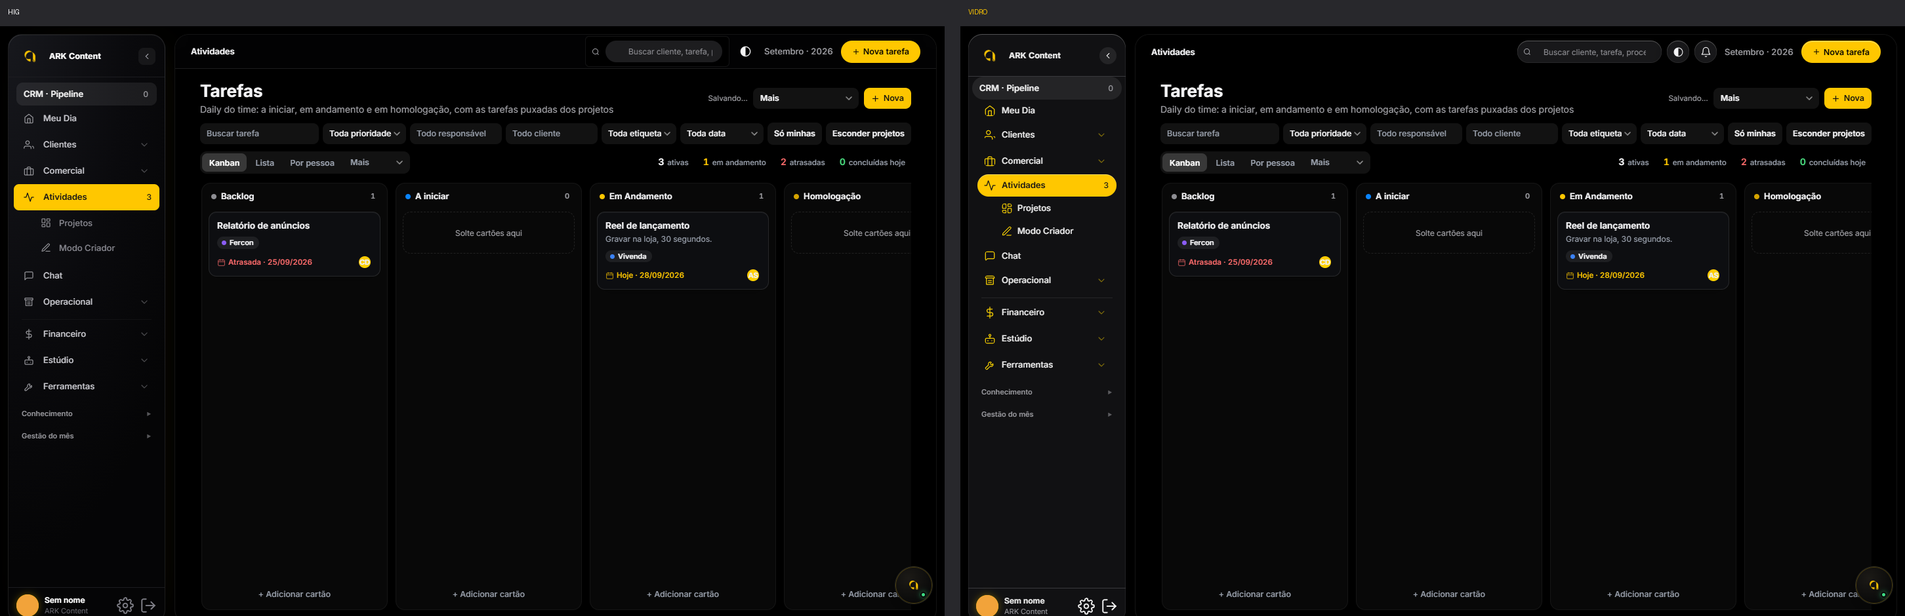
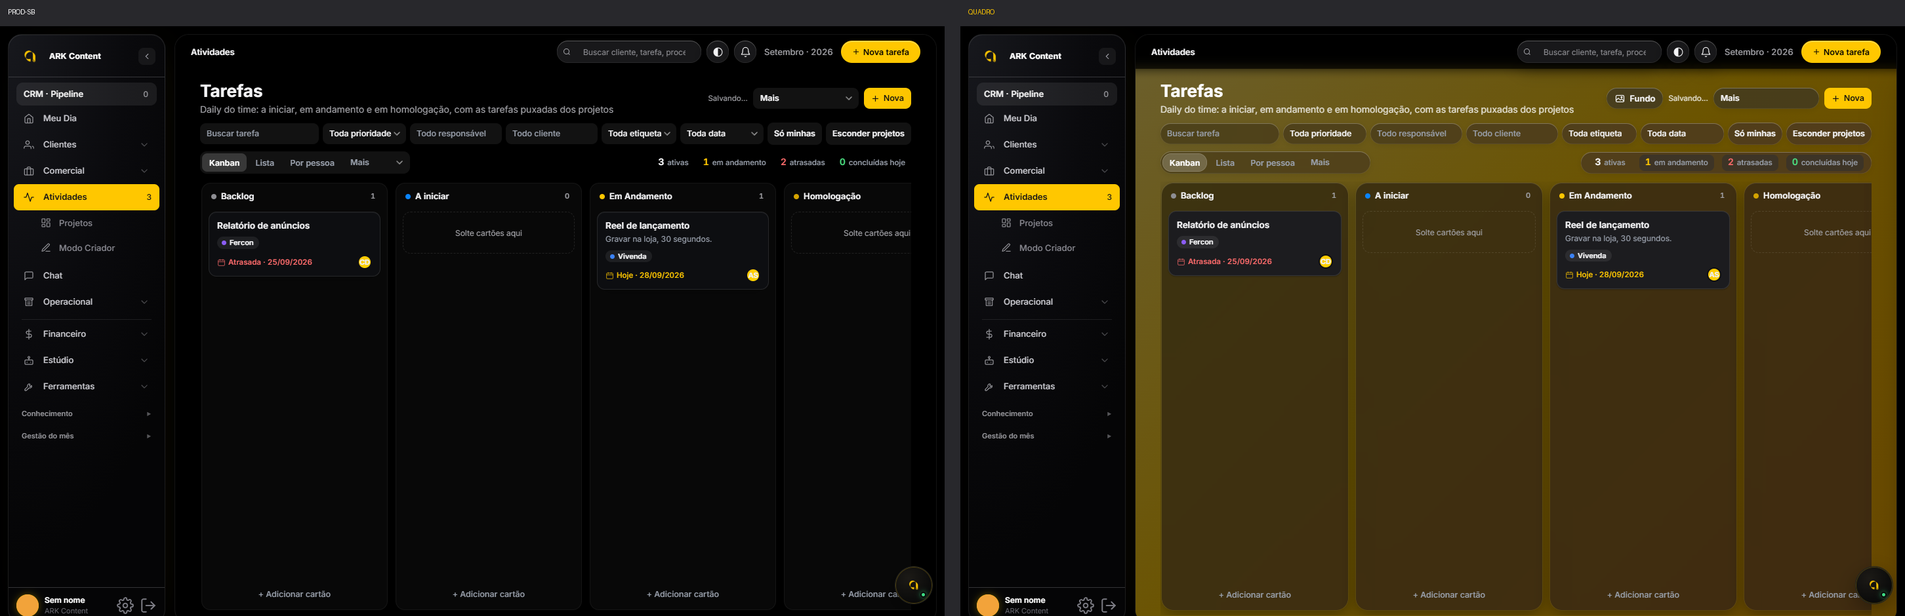
Atividades no piloto Liquid Glass aprovado: tema claro padrão, quadro com rolagem livre, fundo amarelo e escolha de fundo; marcador 20260929a-atividades-quadro
- Tema claro vira o padrão para quem não escolheu (quem escolheu escuro
  continua no escuro). Sidebar segue preta.
- Quadro estilo Trello: arrastar o fundo (ou o fundo da coluna) com o
  mouse rola na horizontal, com inércia; cartão, botão e campo não
  iniciam o arraste; roda do mouse fora das colunas anda para os lados.
- Plano de fundo por pessoa neste aparelho: amarelo por padrão, 7
  gradientes ou foto própria (comprimida para até 1920 px).
- Colunas em vidro fosco, cartões sólidos, controles em cápsulas de vidro,
  refração de Liquid Glass nas cápsulas (Chrome).
- Prova: servidor com várias conexões (o de uma por vez deixava cair folha
  de estilo) e aviso de folha sem carregar.
Teste deploy/teste-quadro.py: RED 5 de 5, GREEN depois. teste-hig,
arrastar, drop rápido, confiabilidade, mobile, tema, prazo, tokens e
build OK.

Claude-Session: https://claude.ai/code/session_01KJbxYq7eWrqoC6iFvLdahp

diff --git a/public/workflowark-quadro-20260929a.js b/public/workflowark-quadro-20260929a.js
@@ -1,0 +1,158 @@
+/* WorkFlowArk · aba Atividades no piloto Liquid Glass aprovado (28/09/2026).
+   - Rolagem livre estilo Trello: arrastar o fundo do quadro (ou o fundo da coluna) com o mouse rola na horizontal,
+     com inércia (projeção de momento da Apple). Cartão, botão e campo não iniciam o arraste do quadro.
+   - Plano de fundo por pessoa neste aparelho: amarelo por padrão, gradientes prontos ou uma foto.
+   - Refração de Liquid Glass nas cápsulas da barra do topo e da barra de vistas (só no Chrome; nos outros fica o desfoque).
+   Teste: python deploy/teste-quadro.py */
+(function () {
+  'use strict';
+  var CHAVE = 'wfa-quadro-fundo';
+  var FUNDOS = [
+    'linear-gradient(135deg,#FFE066 0%,#FFC700 45%,#FFAE00 100%)',
+    'linear-gradient(135deg,#ffb86b,#ff6fa3 45%,#7b6cff)',
+    'linear-gradient(135deg,#4facfe,#00f2fe)',
+    'linear-gradient(135deg,#43e97b,#38f9d7)',
+    'linear-gradient(135deg,#fa709a,#fee140)',
+    'linear-gradient(135deg,#667eea,#764ba2)',
+    'linear-gradient(160deg,#0f2027,#203a43 50%,#2c5364)',
+    'linear-gradient(135deg,#f6d365,#fda085)'
+  ];
+  function pagina() { return document.getElementById('page-tarefas'); }
+
+  // ---------- plano de fundo ----------
+  function aplicarFundo(v) {
+    var pg = pagina(); if (!pg) return;
+    var css = (v && v.foto) ? 'url("' + v.foto + '") center/cover no-repeat' : FUNDOS[(v && v.i) || 0] || FUNDOS[0];
+    pg.style.setProperty('--quadro-fundo', css);
+    marcarAmostras(v);
+  }
+  function lerFundo() { try { return JSON.parse(localStorage.getItem(CHAVE) || 'null') || { i: 0 }; } catch (e) { return { i: 0 }; } }
+  function salvarFundo(v) { try { localStorage.setItem(CHAVE, JSON.stringify(v)); return true; } catch (e) { return false; } }
+  window.wfaQuadroFundo = function (i) { var v = { i: Math.max(0, Math.min(FUNDOS.length - 1, +i || 0)) }; salvarFundo(v); aplicarFundo(v); };
+  function usarFoto(arquivo) {
+    if (!arquivo || !/^image\//.test(arquivo.type)) return;
+    var img = new Image(), url = URL.createObjectURL(arquivo);
+    img.onload = function () {
+      var max = 1920, k = Math.min(1, max / Math.max(img.width, img.height)), c = document.createElement('canvas');
+      c.width = Math.round(img.width * k); c.height = Math.round(img.height * k);
+      c.getContext('2d').drawImage(img, 0, 0, c.width, c.height); URL.revokeObjectURL(url);
+      var v = { foto: c.toDataURL('image/jpeg', .82) };
+      if (!salvarFundo(v)) { v = { foto: c.toDataURL('image/jpeg', .6) }; salvarFundo(v); }
+      aplicarFundo(v);
+    };
+    img.src = url;
+  }
+
+  // ---------- botão e popover de fundo ----------
+  var pop;
+  function marcarAmostras(v) {
+    if (!pop) return;
+    [].forEach.call(pop.querySelectorAll('.qf-amostra'), function (b, j) { b.classList.toggle('on', !(v && v.foto) && ((v && v.i) || 0) === j); });
+  }
+  function montarBotao() {
+    var acoes = document.querySelector('#page-tarefas .tf-acoes');
+    if (!acoes || document.getElementById('tf-fundo-btn')) return;
+    var bt = document.createElement('button');
+    bt.id = 'tf-fundo-btn'; bt.type = 'button'; bt.className = 'tf-fundo-btn'; bt.setAttribute('aria-label', 'Plano de fundo do quadro'); bt.title = 'Plano de fundo do quadro';
+    bt.innerHTML = '<svg viewBox="0 0 24 24" fill="none" stroke="currentColor" stroke-width="1.7" stroke-linecap="round" stroke-linejoin="round"><rect x="3.5" y="5" width="17" height="14" rx="2.5"/><path d="M3.5 16l5-5 4.2 4.2 2.8-2.8 5 5"/><circle cx="15.5" cy="9" r="1.2"/></svg><span>Fundo</span>';
+    acoes.insertBefore(bt, acoes.firstChild);
+    pop = document.createElement('div');
+    pop.className = 'qf-pop'; pop.setAttribute('role', 'dialog'); pop.setAttribute('aria-label', 'Plano de fundo do quadro');
+    var h = '<div class="qf-tit">Plano de fundo do quadro</div><div class="qf-grade">';
+    FUNDOS.forEach(function (f, j) { h += '<button type="button" class="qf-amostra" style="background:' + f + '" aria-label="' + (j ? 'Fundo ' + (j + 1) : 'Amarelo ARK') + '" data-i="' + j + '"></button>'; });
+    h += '</div><label class="qf-foto"><svg viewBox="0 0 24 24" width="16" height="16" fill="none" stroke="currentColor" stroke-width="1.8" stroke-linecap="round"><path d="M12 15V5M7.8 9.2L12 5l4.2 4.2M5 16v2.5A1.5 1.5 0 0 0 6.5 20h11a1.5 1.5 0 0 0 1.5-1.5V16"/></svg>Usar uma foto minha<input type="file" accept="image/*" hidden></label>';
+    pop.innerHTML = h;
+    document.body.appendChild(pop);
+    pop.addEventListener('click', function (e) { var a = e.target.closest('.qf-amostra'); if (a) window.wfaQuadroFundo(+a.dataset.i); });
+    pop.querySelector('input').addEventListener('change', function () { usarFoto(this.files[0]); this.value = ''; });
+    bt.addEventListener('click', function (e) {
+      e.stopPropagation();
+      var r = bt.getBoundingClientRect();
+      pop.style.top = (r.bottom + 8) + 'px'; pop.style.left = Math.max(12, r.right - 300) + 'px';
+      pop.classList.toggle('aberto');
+    });
+    document.addEventListener('click', function (e) { if (pop.classList.contains('aberto') && !pop.contains(e.target) && e.target !== bt) pop.classList.remove('aberto'); });
+    document.addEventListener('keydown', function (e) { if (e.key === 'Escape') pop.classList.remove('aberto'); });
+    marcarAmostras(lerFundo());
+  }
+
+  // ---------- rolagem livre ----------
+  var NAO = '.task-card,button,input,select,textarea,a,label,[draggable="true"],[contenteditable],.tc-add,.task-add,.qf-pop';
+  function ligarQuadro() {
+    var q = document.getElementById('task-board');
+    if (!q || q.dataset.rolagemLivre) return;
+    q.dataset.rolagemLivre = '1';
+    var pegando = false, x0 = 0, s0 = 0, hist = [], anim = 0, moveu = false;
+    q.addEventListener('pointerdown', function (e) {
+      if (e.pointerType !== 'mouse' || e.button !== 0 || e.target.closest(NAO)) return;
+      cancelAnimationFrame(anim); pegando = true; moveu = false; x0 = e.clientX; s0 = q.scrollLeft; hist = [[e.clientX, performance.now()]];
+    });
+    q.addEventListener('pointermove', function (e) {
+      if (!pegando) return;
+      var dx = e.clientX - x0;
+      if (!moveu && Math.abs(dx) < 4) return;
+      if (!moveu) { moveu = true; q.classList.add('arrastando'); try { q.setPointerCapture(e.pointerId); } catch (er) {} }
+      q.scrollLeft = s0 - dx; hist.push([e.clientX, performance.now()]); if (hist.length > 6) hist.shift();
+    });
+    function soltar() {
+      if (!pegando) return; pegando = false; q.classList.remove('arrastando');
+      if (!moveu || matchMedia('(prefers-reduced-motion: reduce)').matches) return;
+      var a = hist[0], b = hist[hist.length - 1], dt = Math.max(1, b[1] - a[1]), v = -(b[0] - a[0]) / dt * 1000;
+      var t0 = performance.now(), ini = q.scrollLeft, d = 0.998, alvo = ini + (v / 1000) * d / (1 - d);
+      (function passo(t) { var p = Math.min(1, (t - t0) / 650), k = 1 - Math.pow(1 - p, 3); q.scrollLeft = ini + (alvo - ini) * k; if (p < 1) anim = requestAnimationFrame(passo); })(t0);
+    }
+    q.addEventListener('pointerup', soltar); q.addEventListener('pointercancel', soltar);
+    q.addEventListener('wheel', function (e) {
+      if (e.target.closest('.task-col') || Math.abs(e.deltaY) <= Math.abs(e.deltaX) || e.ctrlKey) return;
+      q.scrollLeft += e.deltaY; e.preventDefault();
+    }, { passive: false });
+  }
+
+  // ---------- refração nas cápsulas (Liquid Glass) ----------
+  var CAPSULAS = '.topbar .tb-search,.topbar .tb-btn.tb-ic,#task-views,#tf-fundo-btn';
+  var chrome = /Chrome\//.test(navigator.userAgent); // Chrome e Edge aceitam filtro SVG no backdrop-filter
+  var NS = 'http://www.w3.org/2000/svg', defs = null, cache = {};
+  function mapa(w, h, r, borda) {
+    var c = document.createElement('canvas'); c.width = w; c.height = h;
+    var ctx = c.getContext('2d'), img = ctx.createImageData(w, h), d = img.data, ax = Math.max(w / 2 - r, 0), ay = Math.max(h / 2 - r, 0);
+    for (var y = 0; y < h; y++) for (var x = 0; x < w; x++) {
+      var px = x + .5 - w / 2, py = y + .5 - h / 2, qx = Math.max(-ax, Math.min(ax, px)), qy = Math.max(-ay, Math.min(ay, py));
+      var vx = px - qx, vy = py - qy, len = Math.hypot(vx, vy) || 1, dist = r - len, ox = 0, oy = 0;
+      if (dist >= 0 && dist < borda) { var t = 1 - dist / borda, m = t * t * t; ox = -vx / len * m; oy = -vy / len * m; }
+      var i = (y * w + x) * 4; d[i] = 128 + ox * 127; d[i + 1] = 128 + oy * 127; d[i + 2] = 128; d[i + 3] = 255;
+    }
+    ctx.putImageData(img, 0, 0); return c.toDataURL();
+  }
+  function refratar(el) {
+    if (!chrome || matchMedia('(prefers-reduced-transparency: reduce)').matches) return;
+    var b = el.getBoundingClientRect(), w = Math.round(b.width), h = Math.round(b.height);
+    if (w < 8 || h < 8) return;
+    var chaveTam = w + 'x' + h, id = 'wfa-lg-' + chaveTam;
+    if (!defs) {
+      var s = document.createElementNS(NS, 'svg'); s.setAttribute('width', '0'); s.setAttribute('height', '0'); s.setAttribute('aria-hidden', 'true');
+      s.style.position = 'absolute'; defs = document.createElementNS(NS, 'defs'); s.appendChild(defs); document.body.appendChild(s);
+    }
+    if (!cache[chaveTam]) {
+      var f = document.createElementNS(NS, 'filter');
+      f.setAttribute('id', id); f.setAttribute('x', '0'); f.setAttribute('y', '0'); f.setAttribute('width', w); f.setAttribute('height', h);
+      f.setAttribute('filterUnits', 'userSpaceOnUse'); f.setAttribute('color-interpolation-filters', 'sRGB');
+      f.innerHTML = '<feImage href="' + mapa(w, h, Math.min(h / 2, 20), Math.min(16, h * .42)) + '" x="0" y="0" width="' + w + '" height="' + h + '" result="m"/>' +
+        '<feDisplacementMap in="SourceGraphic" in2="m" scale="' + Math.min(30, h * .75) + '" xChannelSelector="R" yChannelSelector="G"/>';
+      defs.appendChild(f); cache[chaveTam] = 1;
+    }
+    el.style.setProperty('backdrop-filter', 'url(#' + id + ') blur(1px) saturate(1.8) brightness(1.05)', 'important');
+  }
+  var ro = ('ResizeObserver' in window) ? new ResizeObserver(function (es) { es.forEach(function (e) { refratar(e.target); }); }) : null;
+  function observarCapsulas() {
+    [].forEach.call(document.querySelectorAll(CAPSULAS), function (el) { if (!el.dataset.lg) { el.dataset.lg = '1'; ro ? ro.observe(el) : refratar(el); } });
+  }
+
+  function iniciar() {
+    aplicarFundo(lerFundo()); montarBotao(); ligarQuadro(); observarCapsulas();
+    // o app recria partes da página ao trocar de aba: religa sem duplicar
+    var agendado = false;
+    new MutationObserver(function () { if (agendado) return; agendado = true; requestAnimationFrame(function () { agendado = false; if (!document.getElementById('tf-fundo-btn')) montarBotao(); ligarQuadro(); observarCapsulas(); }); })
+      .observe(document.getElementById('page-tarefas') || document.body, { childList: true, subtree: true });
+  }
+  if (document.readyState === 'loading') document.addEventListener('DOMContentLoaded', iniciar); else iniciar();
+})();

diff --git a/public/workflowark-quadro-20260929a.css b/public/workflowark-quadro-20260929a.css
@@ -1,0 +1,70 @@
+/* WorkFlowArk · aba Atividades no piloto Liquid Glass aprovado (28/09/2026).
+   Quadro estilo Trello sobre plano de fundo (amarelo por padrão), colunas em vidro fosco, cartões sólidos,
+   controles em cápsulas de vidro. Sidebar não muda (preta, ícones neutros). Teste: python deploy/teste-quadro.py */
+
+/* ---------- plano de fundo da página ---------- */
+:is(body.aura-dark,body.aura-light) #page-tarefas{
+  background:var(--quadro-fundo,linear-gradient(135deg,#FFE066 0%,#FFC700 45%,#FFAE00 100%))!important;
+  background-attachment:local!important;min-height:100%}
+/* no escuro o fundo escurece para o texto claro manter contraste */
+body.aura-dark #page-tarefas{background:linear-gradient(rgba(0,0,0,.58),rgba(0,0,0,.58)),var(--quadro-fundo,linear-gradient(135deg,#FFE066 0%,#FFC700 45%,#FFAE00 100%))!important;background-attachment:local!important}
+/* título e textos soltos sobre o fundo */
+body.aura-light #page-tarefas :is(.page-title h1,.page-title h1 *){color:#1D1D1F!important}
+body.aura-light #page-tarefas .page-title p,body.aura-light #page-tarefas #sync-status{color:rgba(0,0,0,.72)!important}
+body.aura-dark #page-tarefas :is(.page-title h1,.page-title h1 *){color:#fff!important}
+body.aura-dark #page-tarefas .page-title p,body.aura-dark #page-tarefas #sync-status{color:rgba(255,255,255,.8)!important}
+
+/* ---------- controles em cápsulas de vidro ---------- */
+:is(body.aura-dark,body.aura-light) #page-tarefas :is(.filter-bar .form-input,.filter-bar .form-select,.filter-bar .icobtn,#tf-mais,#task-views,.tf-kpis,.tf-fundo-btn){
+  background:var(--glass-bg)!important;border:0!important;border-radius:999px!important;
+  -webkit-backdrop-filter:var(--glass-blur)!important;backdrop-filter:var(--glass-blur)!important;
+  box-shadow:var(--glass-rim),0 2px 10px rgba(0,0,0,.08)!important;color:var(--ink)!important}
+body.aura-light #page-tarefas :is(.filter-bar .form-input,.filter-bar .form-select,.filter-bar .icobtn,#tf-mais,#task-views,.tf-kpis,.tf-fundo-btn){background:rgba(255,255,255,.66)!important}
+:is(body.aura-dark,body.aura-light) #page-tarefas #task-views{padding:3px!important}
+:is(body.aura-dark,body.aura-light) #page-tarefas #task-views .tv-btn{border-radius:999px!important;background:transparent!important;border:0!important}
+body.aura-light #page-tarefas #task-views .tv-btn.on{background:#fff!important;box-shadow:0 1px 4px rgba(0,0,0,.14)!important;color:#1D1D1F!important}
+body.aura-dark #page-tarefas #task-views .tv-btn.on{background:rgba(255,255,255,.2)!important;box-shadow:inset 0 0 0 .5px rgba(255,255,255,.3)!important;color:#fff!important}
+:is(body.aura-dark,body.aura-light) #page-tarefas .tf-kpis{padding:4px 12px!important;gap:12px!important}
+:is(body.aura-dark,body.aura-light) #page-tarefas .tf-kpis .kpi{background:transparent!important;border:0!important;box-shadow:none!important}
+.tf-fundo-btn{display:inline-flex;align-items:center;gap:6px;height:32px;padding:0 12px;font:600 13px var(--font-ui,Inter),sans-serif;cursor:pointer}
+.tf-fundo-btn svg{width:17px;height:17px}
+
+/* ---------- quadro: rolagem livre ---------- */
+:is(body.aura-dark,body.aura-light) #task-board{cursor:grab;scrollbar-width:thin;scrollbar-color:rgba(0,0,0,.28) transparent;padding-bottom:8px}
+body.aura-dark #task-board{scrollbar-color:rgba(255,255,255,.35) transparent}
+#task-board.arrastando{cursor:grabbing;user-select:none}
+#task-board .task-card{cursor:pointer}
+
+/* ---------- colunas em vidro fosco, cartões sólidos ---------- */
+:is(body.aura-dark,body.aura-light) #page-tarefas #task-board .task-col{
+  background:rgba(255,255,255,.5)!important;border:0!important;border-radius:18px!important;
+  -webkit-backdrop-filter:blur(22px) saturate(160%)!important;backdrop-filter:blur(22px) saturate(160%)!important;
+  box-shadow:inset 0 1px 0 rgba(255,255,255,.7),0 0 0 .5px rgba(0,0,0,.06),0 6px 20px rgba(0,0,0,.08)!important}
+body.aura-dark #page-tarefas #task-board .task-col{background:rgba(24,24,27,.6)!important;box-shadow:inset 0 1px 0 rgba(255,255,255,.1),0 0 0 .5px rgba(255,255,255,.1),0 8px 24px rgba(0,0,0,.35)!important}
+:is(body.aura-dark,body.aura-light) #page-tarefas #task-board .task-col-head{background:transparent!important;-webkit-backdrop-filter:none!important;backdrop-filter:none!important;border:0!important}
+body.aura-light #page-tarefas #task-board .task-col-head :is(h4,h4 *){color:#1D1D1F!important}
+:is(body.aura-dark,body.aura-light) #page-tarefas #task-board .task-card{background:var(--surface)!important;border-radius:12px!important;
+  box-shadow:0 1px 2px rgba(0,0,0,.08),0 0 0 .5px rgba(0,0,0,.06)!important}
+body.aura-dark #page-tarefas #task-board .task-card{background:#1C1C1F!important;box-shadow:0 1px 2px rgba(0,0,0,.4),0 0 0 .5px rgba(255,255,255,.08)!important}
+
+/* ---------- popover do fundo (vidro) ---------- */
+.qf-pop{position:fixed;z-index:9500;width:300px;padding:14px;border-radius:22px;display:none;
+  background:var(--glass-bg);-webkit-backdrop-filter:blur(30px) saturate(180%);backdrop-filter:blur(30px) saturate(180%);
+  box-shadow:var(--glass-rim),0 18px 50px rgba(0,0,0,.25);color:var(--ink);transform-origin:top right}
+body.aura-light .qf-pop{background:rgba(255,255,255,.78)}
+.qf-pop.aberto{display:block;animation:qfSurgir .2s cubic-bezier(.2,.9,.3,1)}
+@keyframes qfSurgir{from{opacity:0;transform:scale(.94)}to{opacity:1;transform:none}}
+.qf-tit{font-size:13px;font-weight:600;margin:0 0 10px}
+.qf-grade{display:grid;grid-template-columns:repeat(4,1fr);gap:8px;margin-bottom:12px}
+.qf-amostra{height:46px;border-radius:12px;border:0;cursor:pointer;box-shadow:inset 0 0 0 .5px rgba(0,0,0,.15)}
+.qf-amostra.on{outline:2px solid var(--ink);outline-offset:2px}
+.qf-foto{display:flex;align-items:center;justify-content:center;gap:6px;height:36px;border-radius:999px;background:rgba(127,127,127,.16);font-size:13px;font-weight:600;cursor:pointer}
+
+/* ---------- menos transparência e menos movimento ---------- */
+@media (prefers-reduced-transparency:reduce){
+  body.aura-light #page-tarefas #task-board .task-col{background:#F2F2F7!important;-webkit-backdrop-filter:none!important;backdrop-filter:none!important}
+  body.aura-dark #page-tarefas #task-board .task-col{background:#1C1C1F!important;-webkit-backdrop-filter:none!important;backdrop-filter:none!important}
+  .qf-pop{-webkit-backdrop-filter:none;backdrop-filter:none}
+  body.aura-light .qf-pop{background:#fff}body.aura-dark .qf-pop{background:#1C1C1F}
+}
+@media (prefers-reduced-motion:reduce){.qf-pop.aberto{animation:none}}

diff --git a/public/workflowark.html b/public/workflowark.html
@@ -1,4 +1,4 @@
-<!-- build 20260928d-sidebar-e-prazo -->
+<!-- build 20260929a-atividades-quadro -->
 <html lang="pt-BR">
 <head>
 <meta charset="utf-8">
@@ -62,8 +62,8 @@
 </head>
 <!-- build AURA-DARK-OS-MIX 20260703-1830 -->
 <body class="aura-dark">
-<script>/* tema salvo por usuário: aplica ANTES do primeiro paint (padrão = escuro) */
-try{if(localStorage.getItem('wfa-theme')==='light'){document.body.classList.remove('aura-dark');document.body.classList.add('aura-light');}}catch(e){}</script>
+<script>/* tema salvo por usuário: aplica ANTES do primeiro paint (padrão = claro, decisão do Gabriel 28/09/2026) */
+try{if(localStorage.getItem('wfa-theme')!=='dark'){document.body.classList.remove('aura-dark');document.body.classList.add('aura-light');}}catch(e){document.body.classList.remove('aura-dark');document.body.classList.add('aura-light');}</script>
 <div id="wfa-aparencia" onclick="if(event.target===this)wfaAparencia(false)">
   <div class="ap-box">
     <h3>Personalizar aparência</h3>
@@ -88,7 +88,7 @@ function wfaAparencia(open){
   var m=document.getElementById('wfa-aparencia');if(!m)return;
   m.classList.toggle('open',!!open);
   if(open){
-    var t;try{t=localStorage.getItem('wfa-theme')||'dark';}catch(e){t='dark';}
+    var t;try{t=localStorage.getItem('wfa-theme')||'light';}catch(e){t='light';}
     document.getElementById('ap-opt-light').classList.toggle('on',t==='light');
     document.getElementById('ap-opt-dark').classList.toggle('on',t!=='light');
   }
@@ -4753,5 +4753,7 @@ function wfaSetTheme(t){
 <link rel="stylesheet" href="workflowark-hig-20260928a.css">
 <link rel="stylesheet" href="workflowark-vidro-20260928b.css">
 <script src="workflowark-icones-20260928b.js" defer></script>
+<link rel="stylesheet" href="workflowark-quadro-20260929a.css">
+<script src="workflowark-quadro-20260929a.js" defer></script>
 </body>
 </html>

diff --git a/deploy/teste-quadro.py b/deploy/teste-quadro.py
@@ -1,0 +1,89 @@
+# -*- coding: utf-8 -*-
+"""Aba Atividades no piloto aprovado (Liquid Glass 2, 28/09/2026).
+Uso: python deploy/teste-quadro.py [url-base]    (sai 1 se alguma regra quebrar)
+
+1. Sem escolha salva, o tema abre claro (sidebar continua preta).
+2. O quadro tem fundo amarelo por padrão.
+3. Arrastar o fundo do quadro com o mouse rola na horizontal (rolagem livre, estilo Trello).
+4. Arrastar a partir de um cartão NÃO rola o quadro (o arrasto do cartão é outro gesto).
+5. Fundo escolhido fica salvo e volta depois de recarregar.
+6. Colunas em vidro fosco (translúcidas com desfoque) e cartões sólidos.
+"""
+import sys, os, json, threading, http.server, socketserver, functools
+from playwright.sync_api import sync_playwright
+
+os.chdir(os.path.join(os.path.dirname(os.path.abspath(__file__)), '..'))
+base = sys.argv[1] if len(sys.argv) > 1 else None
+srv = None
+if not base:
+    class Q(http.server.SimpleHTTPRequestHandler):
+        def log_message(self, *a): pass
+    socketserver.TCPServer.allow_reuse_address = True
+    srv = socketserver.TCPServer(('127.0.0.1', 5201), functools.partial(Q, directory='public'))
+    threading.Thread(target=srv.serve_forever, daemon=True).start()
+    base = 'http://127.0.0.1:5201'
+
+sess = {'access_token': 't', 'refresh_token': 't', 'token_type': 'bearer', 'expires_in': 3600, 'expires_at': 4102444800,
+        'user': {'id': '0', 'email': 'teste@local', 'user_metadata': {}}}
+st = ['backlog', 'iniciar', 'andamento', 'aprovacao', 'homologcli', 'concluido']
+tarefas = [{'id': 'q%d' % i, 'title': 'Tarefa %d' % i, 'status': st[i % 6], 'resp': 'Ana Souza', 'clienteId': 'vivenda',
+            'data': '2026-09-30', 'up': '2026-09-28T12:00:00.000Z'} for i in range(36)]
+falhas = []
+
+
+def cor(c):
+    import re
+    return [float(x) for x in re.findall(r'[\d.]+', c)[:4]]
+
+
+with sync_playwright() as pw:
+    b = pw.chromium.launch(channel='chrome', headless=True)
+    ctx = b.new_context(viewport={'width': 1440, 'height': 900})
+    ctx.add_init_script("try{localStorage.setItem('sb-fxfnonozzekxnxddxsnh-auth-token',%s);if(!localStorage.getItem('wfa-tarefas'))localStorage.setItem('wfa-tarefas',%s);}catch(e){}"
+                        % (json.dumps(json.dumps(sess)), json.dumps(json.dumps(tarefas))))
+    p = ctx.new_page()
+    p.goto(base + '/workflowark.html', wait_until='load'); p.wait_for_timeout(3000)
+    classe = p.evaluate('document.body.className')
+    if 'aura-light' not in classe:
+        falhas.append('tema padrão não é claro (body: %s)' % classe)
+    p.evaluate("() => document.querySelector('[data-nav=tarefas]').click()"); p.wait_for_timeout(900)
+    fundo = p.evaluate("() => { const s = getComputedStyle(document.getElementById('page-tarefas')); return s.backgroundImage + ' | ' + s.backgroundColor; }")
+    if not any(k in fundo for k in ('255, 199, 0', '255, 214, 0', '255, 204, 0', '#ffc700')):
+        falhas.append('quadro sem fundo amarelo padrão (%s)' % fundo[:120])
+    col = p.evaluate("() => { const c = document.querySelector('#task-board .task-col'); const s = getComputedStyle(c); return { bg: s.backgroundColor, bf: s.backdropFilter }; }")
+    if 'blur' not in (col['bf'] or '') or (len(cor(col['bg'])) > 3 and cor(col['bg'])[3] >= .95) or (len(cor(col['bg'])) == 3):
+        falhas.append('coluna não é vidro fosco (%s, %s)' % (col['bg'], col['bf']))
+    card = p.evaluate("() => { const c = document.querySelector('#task-board .task-card'); if (!c) return null; const m = getComputedStyle(c).backgroundColor.match(/[\\d.]+/g); return m; }")
+    if card and len(card) > 3 and float(card[3]) < .95:
+        falhas.append('cartão não é sólido (%s)' % card)
+    # 3. arrastar o fundo rola
+    bx = p.evaluate("() => { const b = document.getElementById('task-board'); b.scrollLeft = 0; const r = b.getBoundingClientRect(); const cols = [...b.querySelectorAll('.task-col')]; const c1 = cols[0].getBoundingClientRect(), c2 = cols[1].getBoundingClientRect(); return { x: (c1.right + c2.left) / 2, y: r.top + r.height - 12, largura: b.scrollWidth - b.clientWidth }; }")
+    if bx['largura'] <= 0:
+        falhas.append('quadro não tem conteúdo para rolar na horizontal (largura extra %s)' % bx['largura'])
+    p.mouse.move(bx['x'] + 400, bx['y']); p.mouse.down(); p.mouse.move(bx['x'] + 100, bx['y'], steps=10); p.mouse.up(); p.wait_for_timeout(900)
+    rolou = p.evaluate("document.getElementById('task-board').scrollLeft")
+    if rolou < 150:
+        falhas.append('arrastar o fundo não rolou o quadro (scrollLeft %s)' % rolou)
+    # 4. arrastar a partir do cartão não rola
+    p.evaluate("document.getElementById('task-board').scrollLeft = 0"); p.wait_for_timeout(200)
+    cb = p.evaluate("() => { const c = document.querySelector('#task-board .task-card .tc-title, #task-board .task-card'); const r = c.getBoundingClientRect(); return { x: r.left + 20, y: r.top + 10 }; }")
+    p.mouse.move(cb['x'], cb['y']); p.mouse.down(); p.mouse.move(cb['x'] - 250, cb['y'], steps=10); p.mouse.up(); p.wait_for_timeout(600)
+    if p.evaluate("document.getElementById('task-board').scrollLeft") > 5:
+        falhas.append('arrastar a partir do cartão rolou o quadro')
+    # 5. fundo escolhido persiste
+    tem = p.evaluate("() => typeof wfaQuadroFundo === 'function'")
+    if not tem:
+        falhas.append('sem wfaQuadroFundo() para escolher o fundo')
+    else:
+        p.evaluate("() => wfaQuadroFundo(2)"); p.wait_for_timeout(200)
+        antes = p.evaluate("getComputedStyle(document.getElementById('page-tarefas')).backgroundImage")
+        p.reload(wait_until='load'); p.wait_for_timeout(2500)
+        p.evaluate("() => document.querySelector('[data-nav=tarefas]').click()"); p.wait_for_timeout(700)
+        depois = p.evaluate("getComputedStyle(document.getElementById('page-tarefas')).backgroundImage")
+        if antes != depois or 'none' == depois:
+            falhas.append('fundo escolhido não voltou depois de recarregar (%s != %s)' % (antes[:60], depois[:60]))
+    b.close()
+if srv: srv.shutdown()
+if falhas:
+    print('FALHA (%d)' % len(falhas)); [print(' -', f) for f in falhas]; sys.exit(1)
+print('OK: tema claro padrão, fundo amarelo, rolagem livre, cartão não rola, fundo salvo, colunas de vidro')

diff --git a/deploy/prova-tokens.py b/deploy/prova-tokens.py
@@ -53,7 +53,9 @@ if not base:
     class Q(http.server.SimpleHTTPRequestHandler):
         def log_message(self, *a): pass
     socketserver.TCPServer.allow_reuse_address = True
-    srv = socketserver.TCPServer(('127.0.0.1', 5189), functools.partial(Q, directory='public'))
+    # servidor com várias conexões: o de uma conexão por vez deixava cair folha de estilo e a captura saía sem a camada HIG
+    srv = socketserver.ThreadingTCPServer(('127.0.0.1', 5189), functools.partial(Q, directory='public'))
+    srv.daemon_threads = True
     threading.Thread(target=srv.serve_forever, daemon=True).start()
     base = 'http://127.0.0.1:5189'
 hoje = date(2026, 9, 27); d = lambda n: (hoje + timedelta(days=n)).isoformat(); agora = '2026-09-27T12:00:00.000Z'
@@ -93,6 +95,8 @@ with sync_playwright() as pw:
         p.goto(base + '/workflowark.html', wait_until='load'); p.wait_for_timeout(3500)
         p.add_style_tag(content='*,*::before,*::after{transition:none!important;caret-color:transparent!important}')
         tema_certo(p, tema)
+        falta = p.evaluate("() => [...document.querySelectorAll('link[rel=stylesheet]')].filter(l => !l.sheet).map(l => l.getAttribute('href'))")
+        if falta: print('ATENCAO folha de estilo sem carregar em', tema, falta)
         if tema == 'dark':
             print('marcador:', p.evaluate("() => (document.documentElement.outerHTML.match(/build [0-9a-z-]+/)||[''])[0]"))
         def foto(tela):
